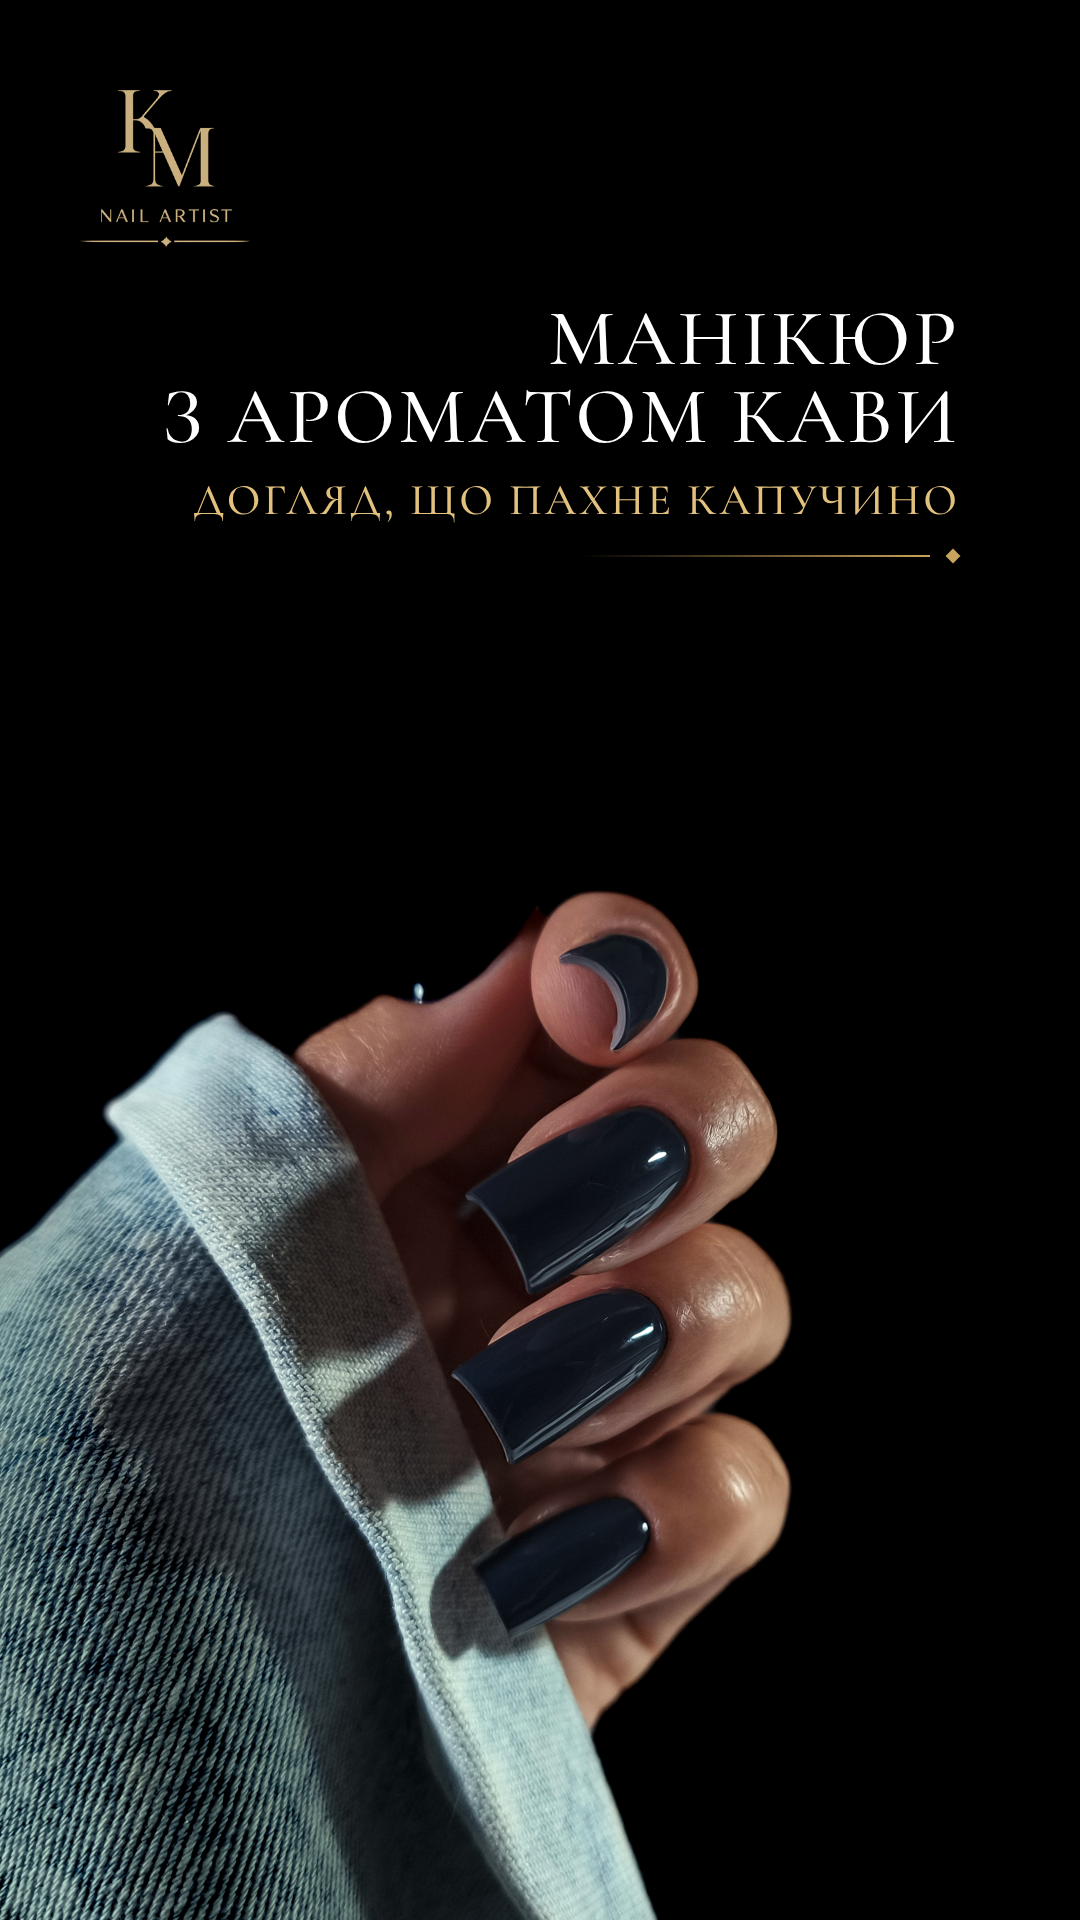
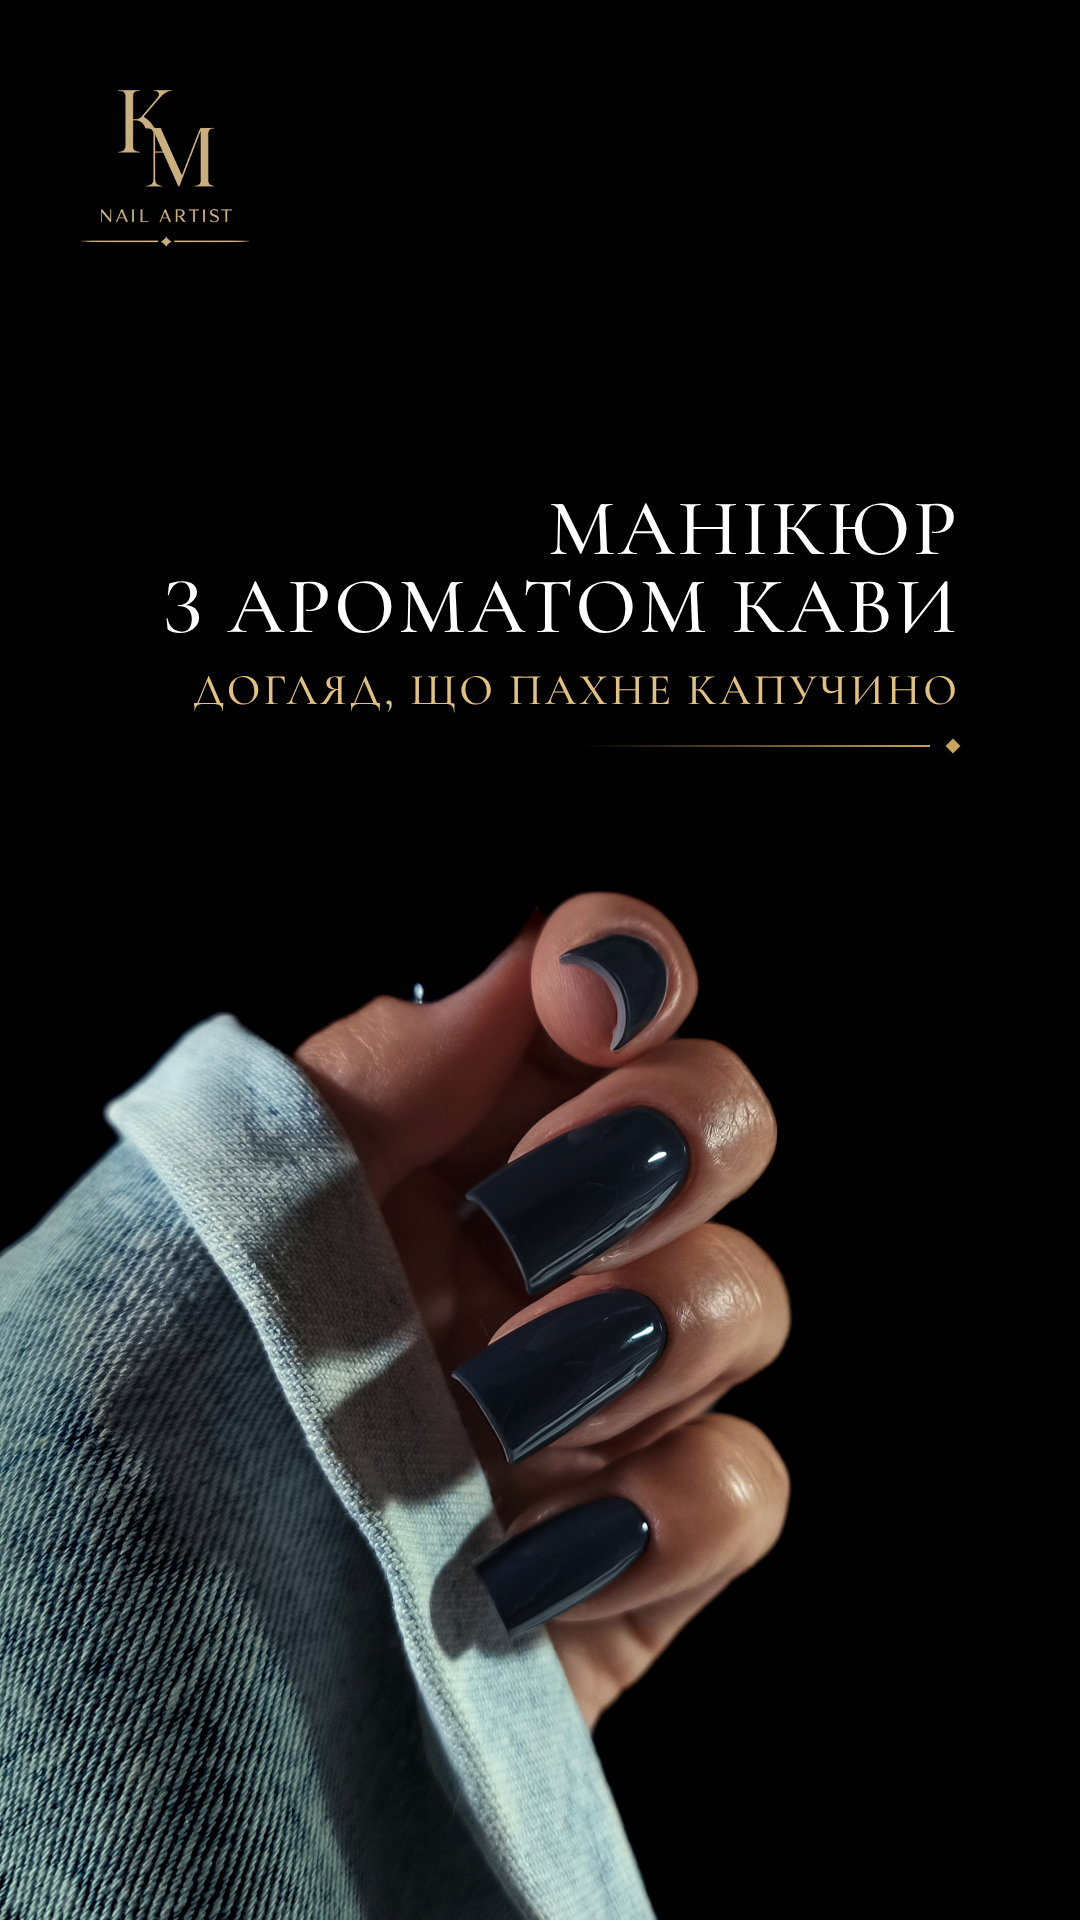
Coffee Reels cover: lower the title
Claude-Session: https://claude.ai/code/session_01MEGGhSdPE82PkZyTaQrXUD

diff --git a/coffee-reel/cover/text.js b/coffee-reel/cover/text.js
@@ -14,7 +14,7 @@ ${face(500)}
 * { margin: 0; box-sizing: border-box; }
 html, body { width: 1080px; height: 1920px; background: transparent; }
 .logo { position: absolute; left: 80px; top: 90px; width: 170px; }
-.t { position: absolute; left: 80px; right: 120px; top: 300px; text-align: right; color: #fff; font-family: CG, serif;
+.t { position: absolute; left: 80px; right: 120px; top: 490px; text-align: right; color: #fff; font-family: CG, serif;
      text-shadow: 0 0 3px rgba(0,0,0,.6), 0 2px 22px rgba(0,0,0,.85); }
 .t::before { content: ''; position: absolute; left: -40px; right: -140px; top: -80px; bottom: -70px; z-index: -1;
      background: radial-gradient(closest-side, rgba(0,0,0,.55), rgba(0,0,0,.3) 55%, rgba(0,0,0,0)); }
